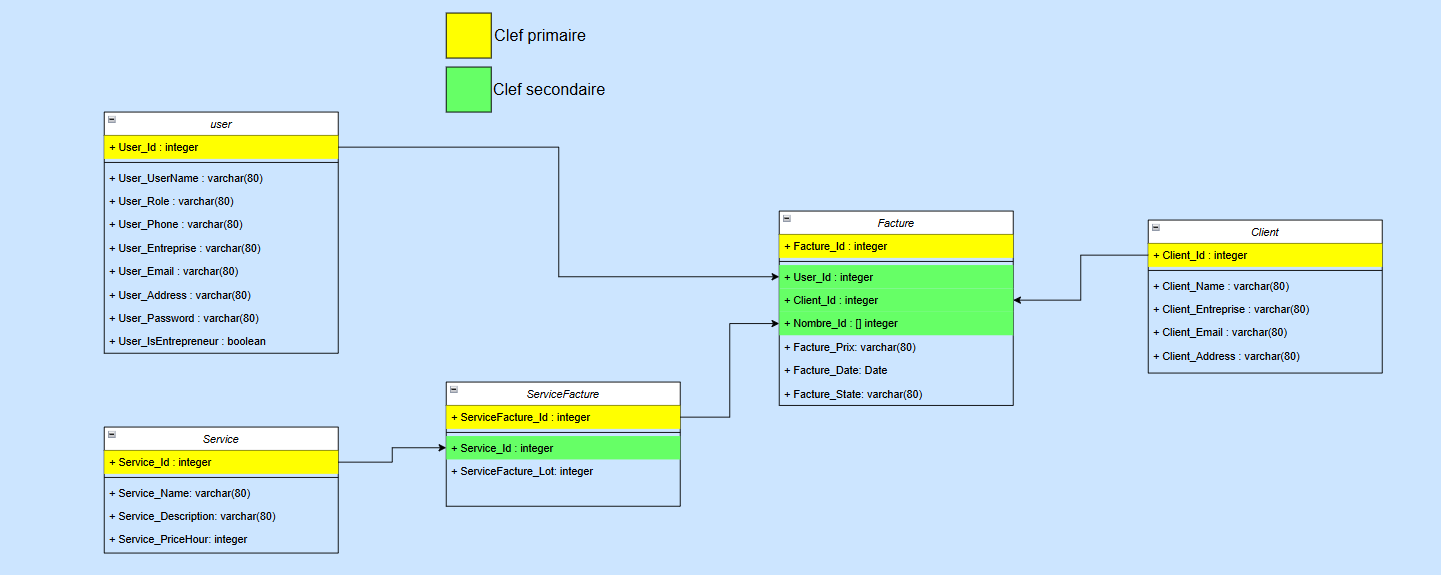
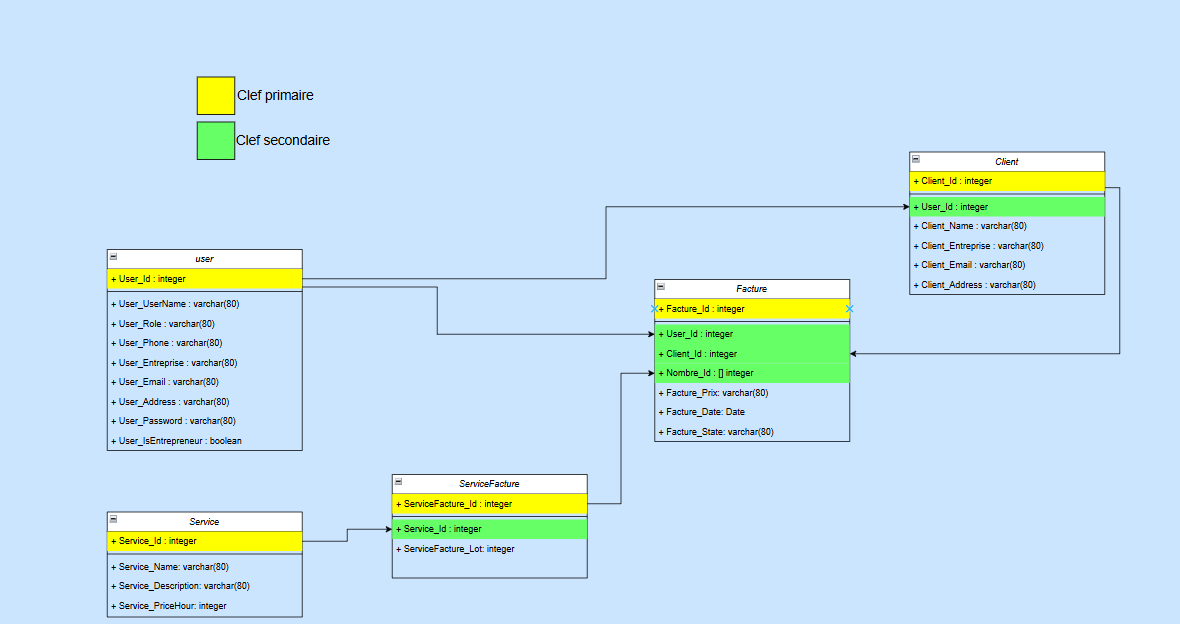
some docs

diff --git a/README.md b/README.md
@@ -11,7 +11,61 @@ D-Zastr have a API for manage users and client information.
 
 This is a project free of right. You can use it has you wish if you integre my names. Thanks for your reading.
 
-- Thibaut FIGUEIRA
-- Camille DAVERIO
-- Pierre SCHEYER
-- Fabien ARTHUR
+### Authors:
+
+- Thibaut FIGUEIRA, Devops.
+- Camille DAVERIO, Dev Backend.
+- Pierre SCHEYER, Dev Frontend.
+- Fabien ARTHUR, Dev Backend.
+
+### Stack:
+
+- Front, vuejs.
+- Back Authentification, nodejs, js, express.
+- Back API, python.
+- Deploiement, renderer.
+
+#### Organisation:
+
+**Github project**
+>github	https://github.com/orgs/Projet-D-ZASTR/repositories
+
+**Main repo**
+>dzastr	https://github.com/Projet-D-ZASTR/dzastr
+
+
+**SubModules**
+
+>**dzastr-fo** https://github.com/Projet-D-ZASTR/dzastr-fo
+
+>**dzastr-mo** https://github.com/Projet-D-ZASTR/dzastr-mo
+
+>**dzastr-auth** https://github.com/Projet-D-ZASTR/dzastr-auth
+
+>**Git Kamban** https://github.com/orgs/Projet-D-ZASTR/projects/3/views/1
+
+#### Liens production:
+
+**Render FO**
+>https://dzastr-fo.onrender.com/auth
+
+### Documentation:
+
+Pour accèder à la documentation de l'API, il y a deux options:
+
+#### Option 1: Swagger UI
+
+**En Production**, la documentation Swagger UI est accessible à l'URL suivante:
+
+>**MO** https://dzastr-mo.onrender.com/docs#/
+
+>**AUTH** https://dzastr-auth.onrender.com/api/docs/#/
+
+#### Option 2: Postman
+
+Un fichier Postman est disponible dans le dépôt GitHub du projet, à importer dans votre application Postman pour accéder à la documentation de l'API.
+
+>**MO** dzastr/documentation/postman/dzastr-mo.postman_collection.json
+
+>**AUTH** dzastr/documentation/postman/dzastr-auth.postman_collection.json
+
